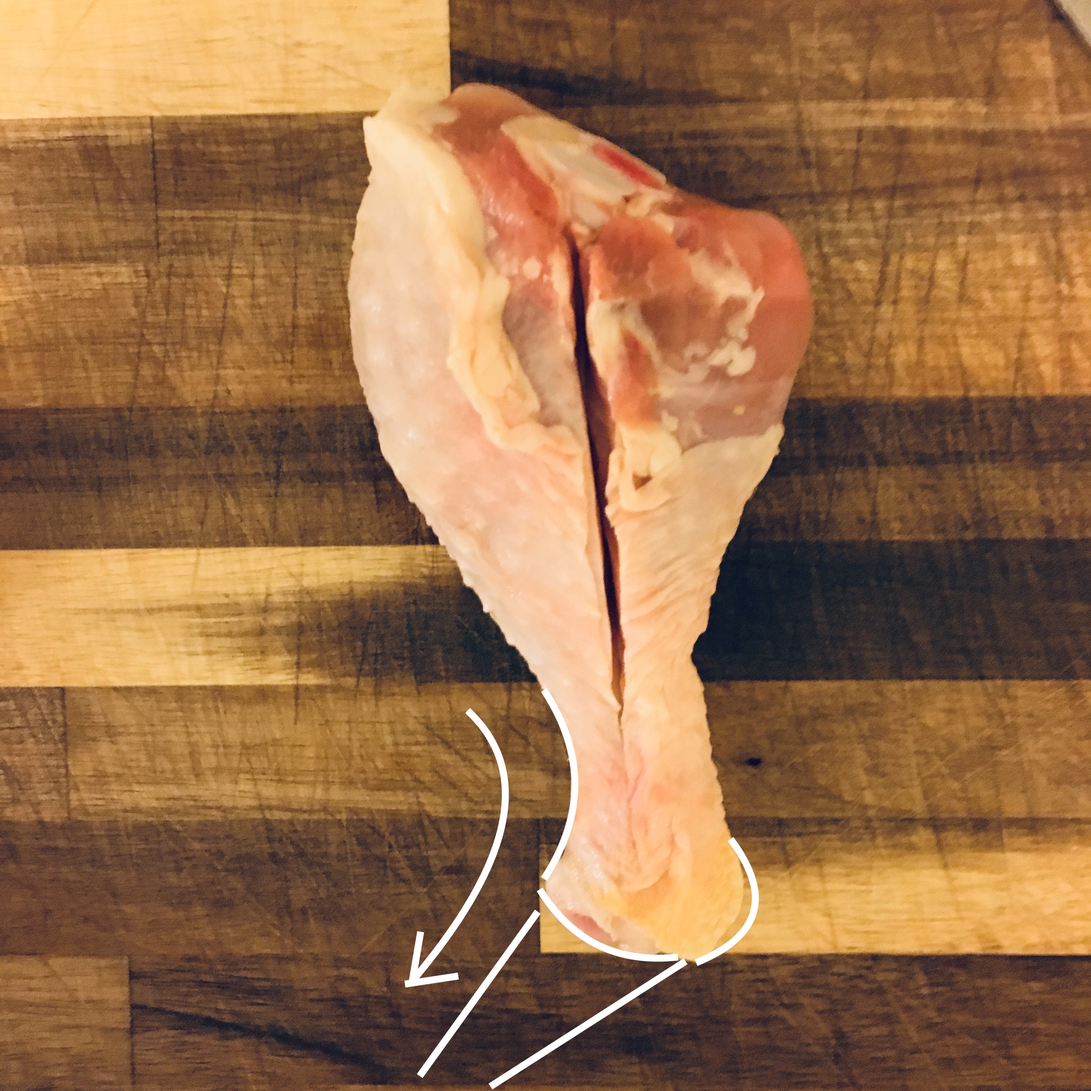
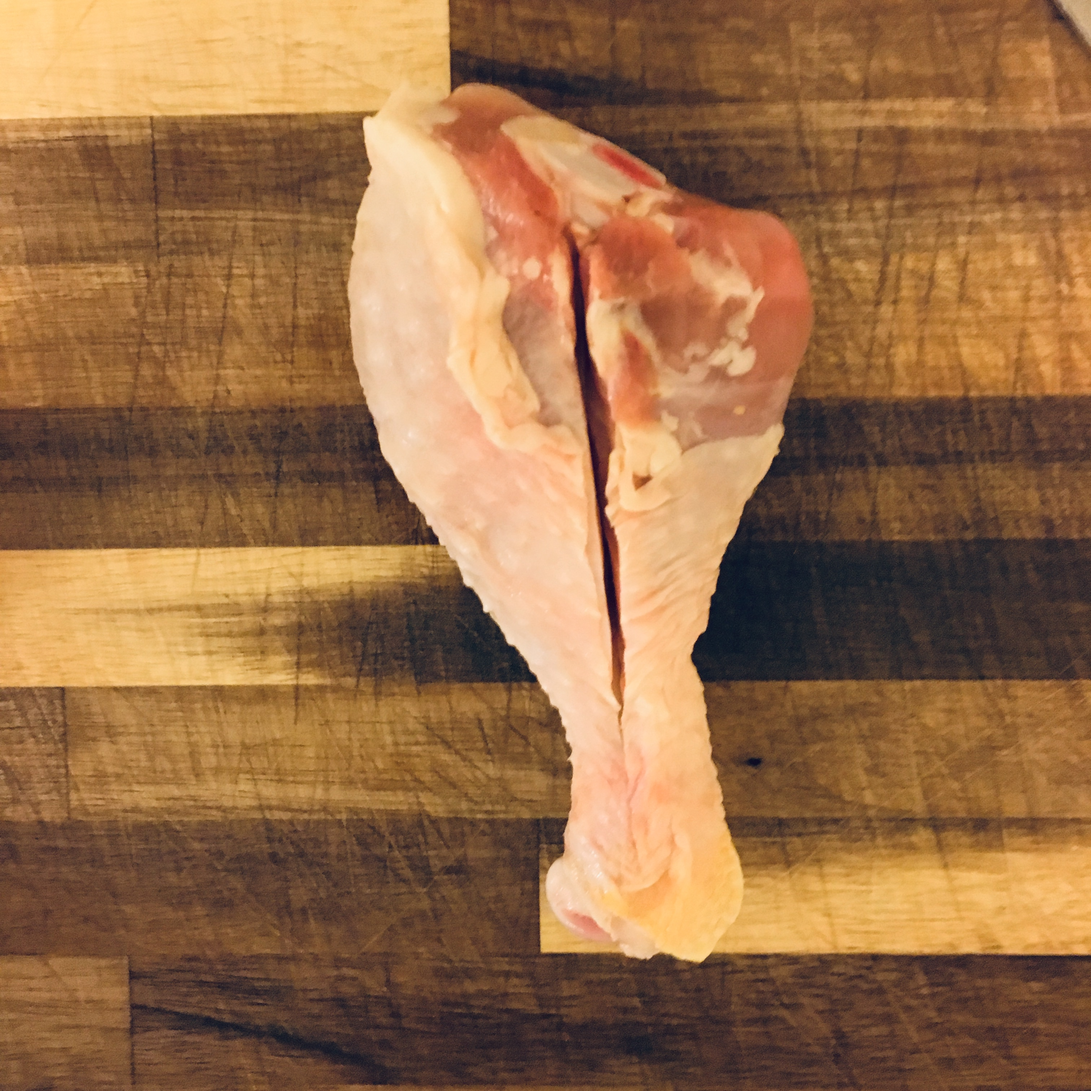
Fix image

diff --git a/cook/fry-chicken-leg/index.html b/cook/fry-chicken-leg/index.html
@@ -3,7 +3,7 @@
 "http://www.w3.org/TR/xhtml1/DTD/xhtml1-strict.dtd">
 <html xmlns="http://www.w3.org/1999/xhtml" lang="en" xml:lang="en">
 <head>
-<!-- 2018-10-07 Sun 19:58 -->
+<!-- 2018-10-07 Sun 20:00 -->
 <meta http-equiv="Content-Type" content="text/html;charset=utf-8" />
 <meta name="viewport" content="width=device-width, initial-scale=1" />
 <title>煎鸡腿</title>
@@ -69,11 +69,11 @@ for the JavaScript code in this tag.
 <h2>Table of Contents</h2>
 <div id="text-table-of-contents">
 <ul>
-<li><a href="#orge8e6b84">1. 材料</a></li>
-<li><a href="#org5c45439">2. 步骤</a>
+<li><a href="#orge1feaf2">1. 材料</a></li>
+<li><a href="#orgf0a83b9">2. 步骤</a>
 <ul>
-<li><a href="#org293796a">2.1. 卸鸡腿</a></li>
-<li><a href="#org813f9d9">2.2. 开煎</a></li>
+<li><a href="#orgb8cdf99">2.1. 卸鸡腿</a></li>
+<li><a href="#org1e90f2d">2.2. 开煎</a></li>
 </ul>
 </li>
 </ul>
@@ -83,8 +83,8 @@ for the JavaScript code in this tag.
 所需时间：约20分钟（腌制时间不计算在内）
 </p>
 
-<div id="outline-container-orge8e6b84" class="outline-2">
-<h2 id="orge8e6b84"><span class="section-number-2">1</span> 材料</h2>
+<div id="outline-container-orge1feaf2" class="outline-2">
+<h2 id="orge1feaf2"><span class="section-number-2">1</span> 材料</h2>
 <div class="outline-text-2" id="text-1">
 <ul class="org-ul">
 <li>鸡腿</li>
@@ -94,15 +94,15 @@ for the JavaScript code in this tag.
 </div>
 </div>
 
-<div id="outline-container-org5c45439" class="outline-2">
-<h2 id="org5c45439"><span class="section-number-2">2</span> 步骤</h2>
+<div id="outline-container-orgf0a83b9" class="outline-2">
+<h2 id="orgf0a83b9"><span class="section-number-2">2</span> 步骤</h2>
 <div class="outline-text-2" id="text-2">
 </div>
-<div id="outline-container-org293796a" class="outline-3">
-<h3 id="org293796a"><span class="section-number-3">2.1</span> 卸鸡腿</h3>
+<div id="outline-container-orgb8cdf99" class="outline-3">
+<h3 id="orgb8cdf99"><span class="section-number-3">2.1</span> 卸鸡腿</h3>
 <div class="outline-text-3" id="text-2-1">
 <p>
-#. 把鸡腿像这样放，膝关节朝右。如果鸡的小腿还在的话应该是这样的：
+#. 把鸡腿像这样放
 </p>
 
 
@@ -173,8 +173,8 @@ for the JavaScript code in this tag.
 </div>
 </div>
 
-<div id="outline-container-org813f9d9" class="outline-3">
-<h3 id="org813f9d9"><span class="section-number-3">2.2</span> 开煎</h3>
+<div id="outline-container-org1e90f2d" class="outline-3">
+<h3 id="org1e90f2d"><span class="section-number-3">2.2</span> 开煎</h3>
 <div class="outline-text-3" id="text-2-2">
 <p>
 热锅倒油，火不要太大，4/10左右，小火慢煎效果比较好。
@@ -241,7 +241,7 @@ for the JavaScript code in this tag.
 </div>
 <div id="postamble" class="status">
 <p class="author">Author: Yuan Fu</p>
-<p class="date">Created: 2018-10-07 Sun 19:58</p>
+<p class="date">Created: 2018-10-07 Sun 20:00</p>
 <p class="validation"><a href="http://validator.w3.org/check?uri=referer">Validate</a></p>
 </div>
 </body>
